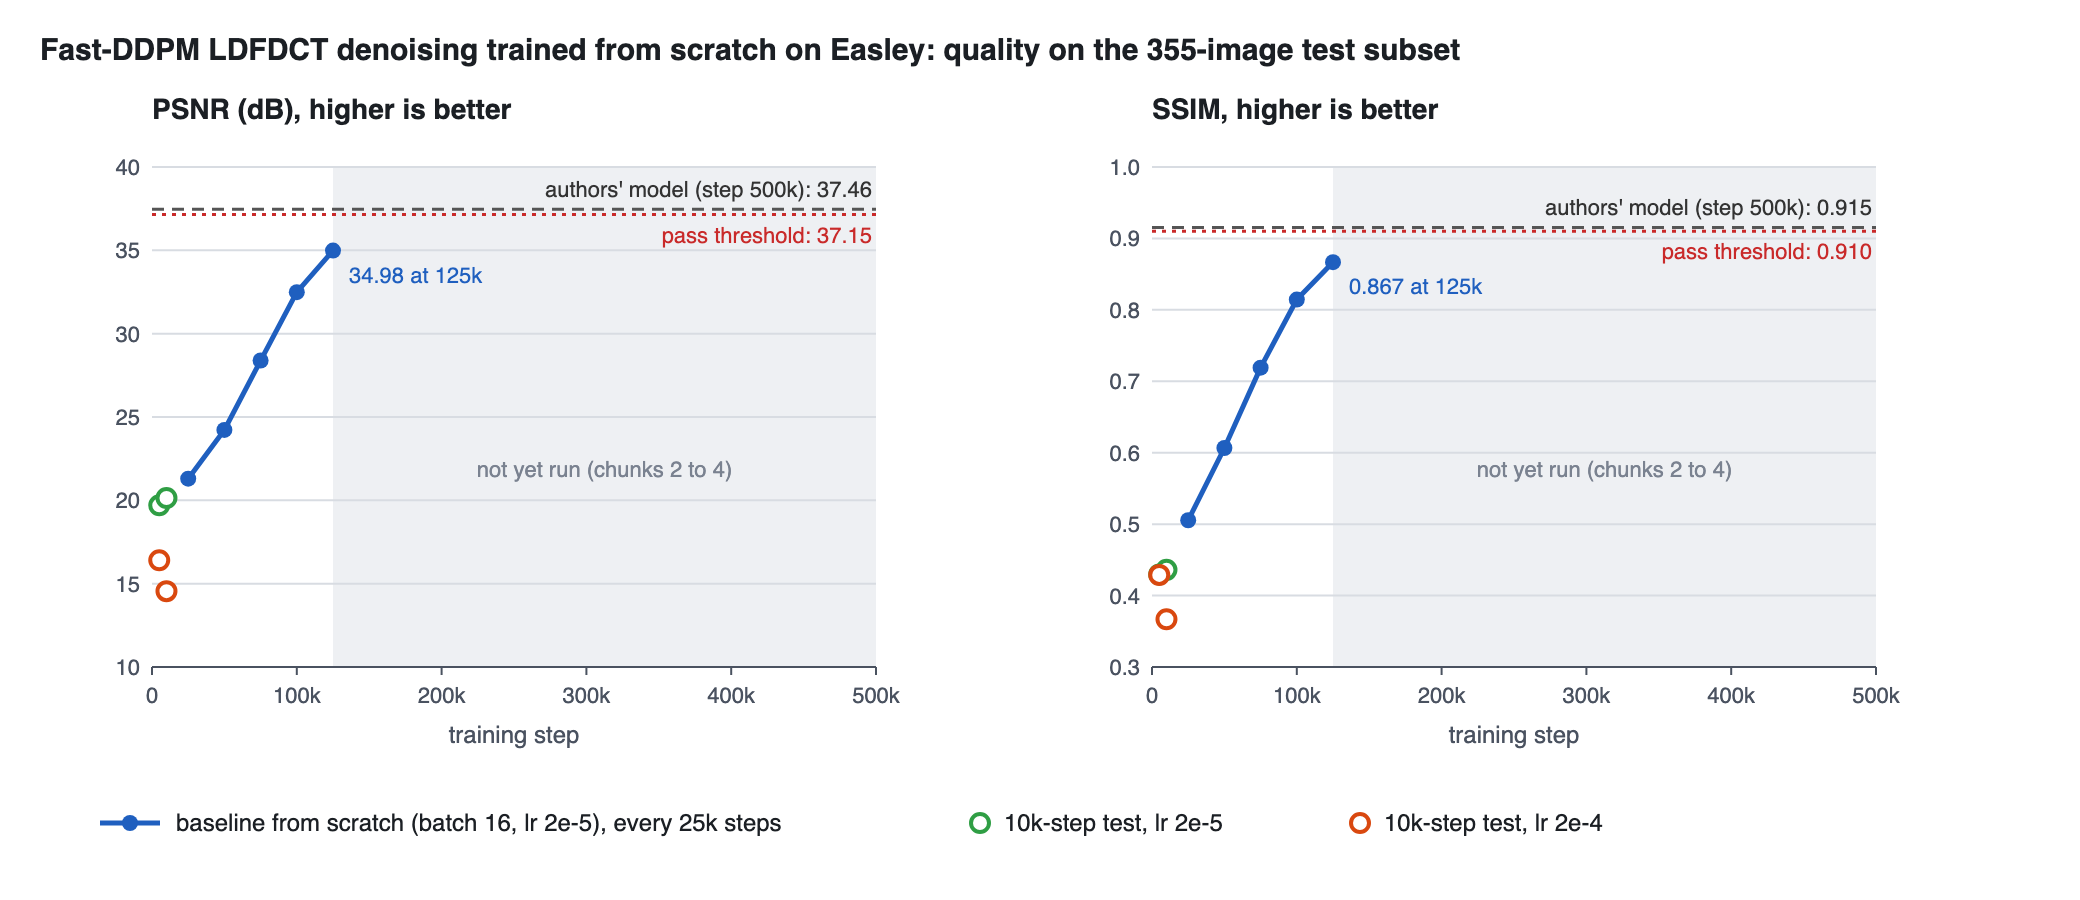
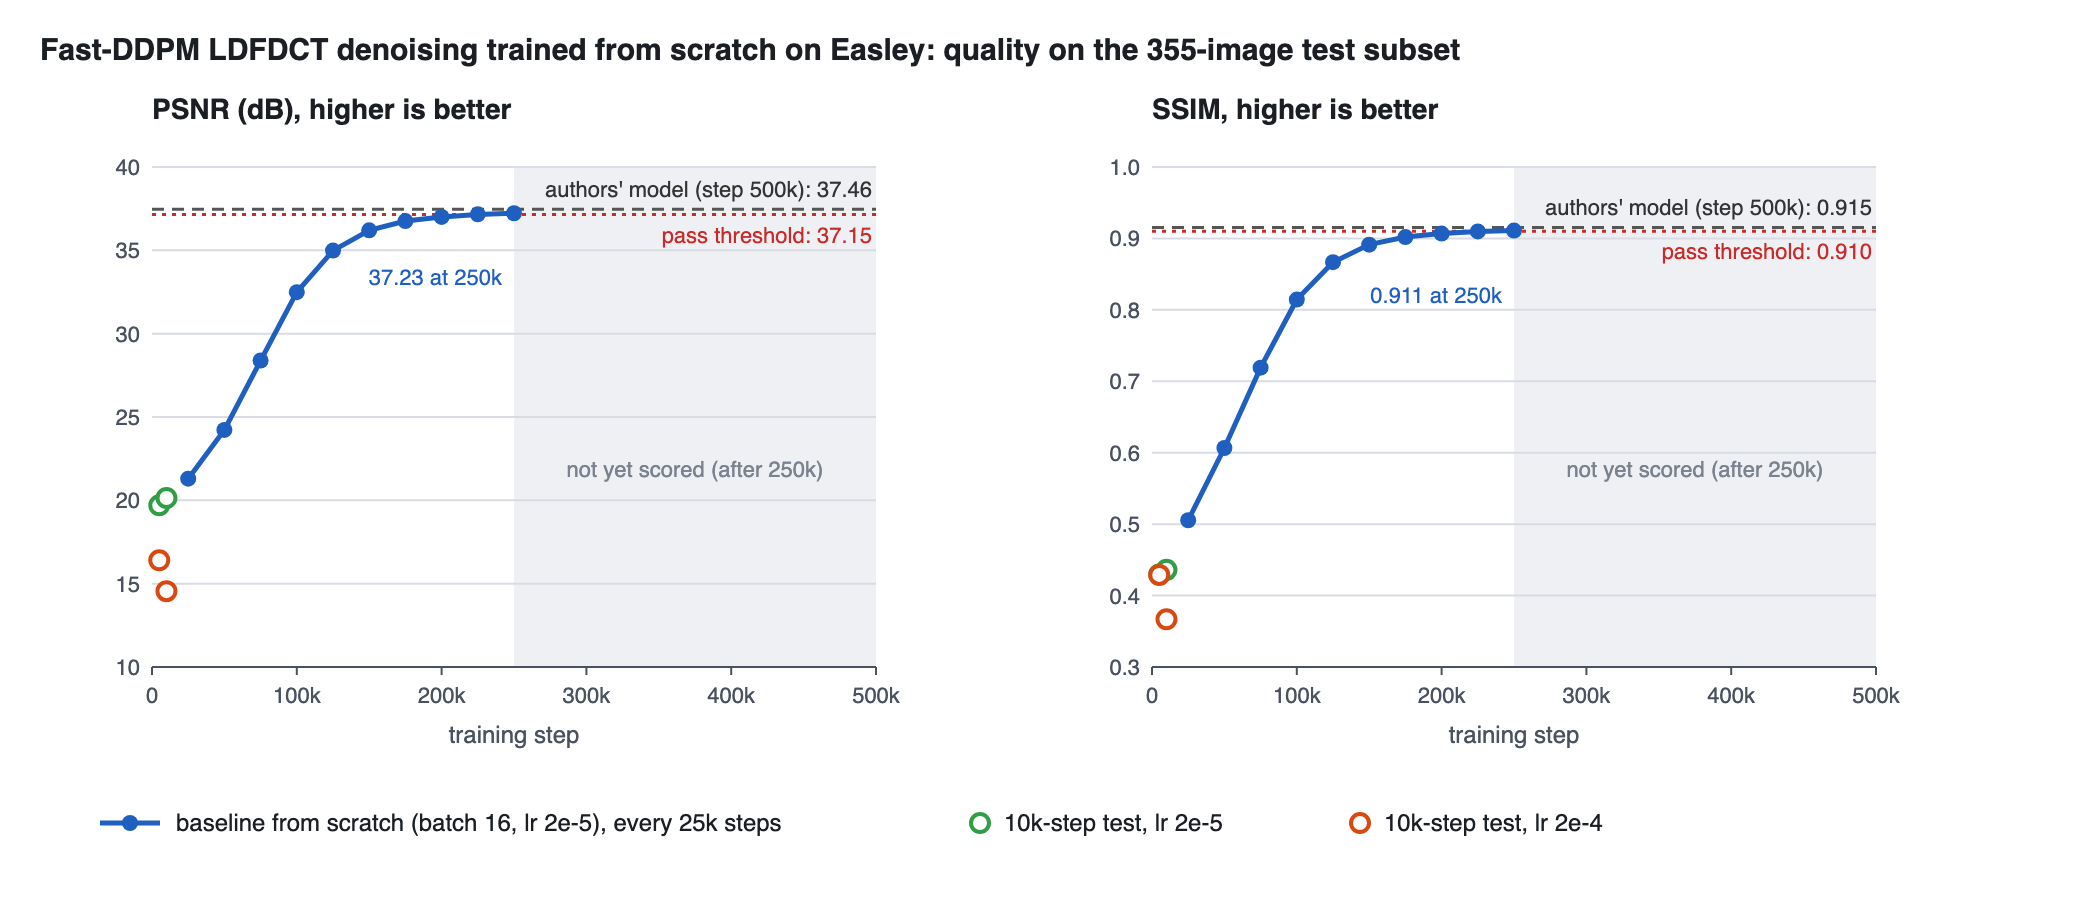
Harden the baseline chain after the scratch-quota failure; add chunk-2 scores
- baseline_train.sh: fail if ckpt.pth is short of the chunk target (the fork's main
  catches exceptions and returns 0), and write-test scratch before starting
- eval_checkpoints.sh: skip missing checkpoints; failed evals leave NA rows
- submit_baseline.sh: START= restarts the chain from a given step
- docs: troubleshooting entries (group quota, exit 0 on crash, restart), baseline
  trajectory to 250k, section 3.4 on the chunk 3/4 failures
- results: scores for 150k-250k; chart regenerated and label overlap fixed

diff --git a/docs/images_src/build_images.py b/docs/images_src/build_images.py
@@ -330,7 +330,7 @@ def chart_html():
         s = [f'<text x="{ox + 56}" y="{top - 24}" font-size="14" font-weight="600" fill="#1b1f24">{ylabel}</text>']
         # pending region
         s.append(f'<rect x="{sx(last)}" y="{top}" width="{sx(total) - sx(last)}" height="{ph}" fill="#eef0f3"/>')
-        s.append(f'<text x="{(sx(last) + sx(total)) / 2}" y="{top + ph * 0.62}" font-size="11" fill="#7a8290" text-anchor="middle">not yet run (chunks 2 to 4)</text>')
+        s.append(f'<text x="{(sx(last) + sx(total)) / 2}" y="{top + ph * 0.62}" font-size="11" fill="#7a8290" text-anchor="middle">not yet scored (after {last // 1000}k)</text>')
         for t in ticks:
             s.append(f'<line x1="{ox + 56}" x2="{ox + pw - 12}" y1="{sy(t)}" y2="{sy(t)}" stroke="#d8dce2"/>')
             s.append(f'<text x="{ox + 50}" y="{sy(t) + 4}" font-size="11" fill="#4a5260" text-anchor="end">{fmt(t)}</text>')
@@ -357,7 +357,7 @@ def chart_html():
         for x, v in pts:
             s.append(f'<circle cx="{sx(x)}" cy="{sy(v)}" r="4" fill="#1f5fbf"/>')
         x, v = pts[-1]
-        s.append(f'<text x="{sx(x) + 8}" y="{sy(v) + 16}" font-size="11" fill="#1f5fbf">{fmt(v)} at {x // 1000}k</text>')
+        s.append(f'<text x="{sx(x) - 6}" y="{sy(v) + 36}" font-size="11" fill="#1f5fbf" text-anchor="end">{fmt(v)} at {x // 1000}k</text>')
         return "".join(s)
 
     left = panel(0, "psnr", 10, 40, [10, 15, 20, 25, 30, 35, 40], ref_psnr, thr_psnr, lambda v: f"{v:.2f}" if isinstance(v, float) and v % 1 else f"{v:g}", "PSNR (dB), higher is better")

diff --git a/docs/run_options_and_bounds.md b/docs/run_options_and_bounds.md
@@ -168,7 +168,9 @@ is why loss could not choose between the learning rates.
 
 ### 3.3 Baseline trajectory (from scratch, batch 16, lr 2e-5, one H100; stride-10 subset)
 
-Chunk 1 (job 1410422, 12:01:15 on `easley054`) and its eval (job 1410423, 11:39 on `easley057`):
+Chunk 1 (job 1410422, 12:01:15 on `easley054`) and its eval (job 1410423, 11:39 on `easley057`);
+chunk 2 (job 1410424, 11:59:05 on `easley051`) and its eval (job 1410425, 11:30 on `easley055`).
+Chunk 3 (job 1410426) crashed at step 350,511 on the scratch quota; see section 3.4.
 
 | Step | PSNR (dB) | SSIM | Gain over previous 25k steps (dB) |
 |---:|---:|---:|---:|
@@ -177,12 +179,17 @@ Chunk 1 (job 1410422, 12:01:15 on `easley054`) and its eval (job 1410423, 11:39 
 | 75,000 | 28.39 | 0.7190 | +4.2 |
 | 100,000 | 32.49 | 0.8144 | +4.1 |
 | 125,000 | 34.98 | 0.8667 | +2.5 |
+| 150,000 | 36.20 | 0.8913 | +1.2 |
+| 175,000 | 36.75 | 0.9019 | +0.55 |
+| 200,000 | 37.00 | 0.9067 | +0.25 |
+| 225,000 | 37.16 | 0.9098 | +0.16 |
+| 250,000 | 37.23 | 0.9110 | +0.07 |
 | authors' checkpoint (step 500,000) | 37.46 | 0.9153 | |
 
 ![PSNR and SSIM against training step for the baseline and the learning-rate tests](images/fig_psnr_vs_step.png)
 
 (Regenerate with `python3 docs/images_src/build_images.py` after copying new eval CSVs into
-`docs/results/`; the chunks not yet run are shaded.)
+`docs/results/`; the part not yet scored is shaded.)
 
 - **Training works from scratch in our setup.** PSNR rises steadily; the 10,000-step LR test
   (20.14 dB) sits at the start of this curve.
@@ -190,8 +197,22 @@ Chunk 1 (job 1410422, 12:01:15 on `easley054`) and its eval (job 1410423, 11:39 
 - **The 25 dB early-warning cutoff was too crude.** At 50,000 steps PSNR was 24.22, below the
   cutoff, yet the run was gaining 3 to 4 dB per 25,000 steps. We continued. The cutoff was a
   judgment made without a reference curve; a slope rule is better (see section 4).
-- **Gains are shrinking** (+4.1, then +2.5 dB). Five points do not support a prediction of the
-  final value; the remaining chunks will show whether it reaches the threshold.
+- **Gains are shrinking fast.** Each 25,000 steps adds roughly half of the previous gain
+  (+2.5, +1.2, +0.55, +0.25, +0.16, +0.07 dB). At 250,000 steps the subset score is already
+  above the proposed full-test-set bar (37.15 dB, 0.910), but a subset score is not a pass.
+  If the halving continues the curve flattens near 37.3 dB, a little under the authors' 37.46
+  (an extrapolation from a few points, not a measurement). If so, the second half of the
+  schedule buys about 0.1 dB for about 24 H100-hours; the scores for 275k to 500k will
+  confirm or refute it.
+
+### 3.4 Chunk 3 and 4 failures (2026-11-10): scratch quota
+
+Chunk 3 stopped at step 350,511 and chunk 4 died after 26 s; both with
+`OSError 122: Disk quota exceeded` (TensorBoard event file), and the eval of chunk 3 failed
+saving a sample image. The group quota on `/carc/scratch` is 100 GiB (we were at 101.23). The
+chain did not stop cleanly because the fork's `main` catches exceptions and returns 0. The last
+good checkpoint, `ckpt_350000.pth`, was intact. See the troubleshooting log in `hpc_tutorial.md`
+for the fix and the restart command.
 
 ---
 
@@ -238,9 +259,10 @@ After a chunk and its evaluation finish:
 ones pending as `DependencyNeverSatisfied`.
 1. `scancel` the stuck jobs.
 2. Check the last checkpoint: `ls -l ~/carc-scratch/fastddpm-exp/logs/baseline_bs16_lr2e-5/`.
-3. Rerun `bash submit_baseline.sh`. Each job computes its target from the latest
-   `ckpt.pth`, and a job already past the total exits at once. Duplicate rows in the CSV
-   are harmless.
+3. Rerun the chain from the step `ckpt.pth` holds, e.g. `START=350000 bash submit_baseline.sh`
+   (add `DRY=1` first). Chunks that end at or before `START` are not submitted; each job still
+   computes its target from the latest `ckpt.pth`. Check that a quota error or other crash is
+   fixed first: the 2026-11-10 failure is in the troubleshooting log.
 
 A crash costs at most the steps since the last checkpoint (up to 25,000, about
 2.4 h).

diff --git a/docs/hpc_tutorial.md b/docs/hpc_tutorial.md
@@ -515,3 +515,27 @@ assumed, not confirmed, at the time this was written.
   removes an existing `--doc` folder unless `--resume_training` is given. Before
   rerunning `submit_baseline.sh`, check that `ckpt.pth` exists in the run's folder
   (otherwise a second chunk-1 job would delete the one that is running).
+- **`Disk quota exceeded` on `/carc/scratch` stops a long run (2026-11-10)** — the quota
+  is **100 GiB per group** (`lc2025`), shared by everything you keep on scratch, not just the
+  current project. The login banner warns `The storage quota for group <group> on
+  /carc/scratch has been exceeded (101.23GiB/100.00GiB)`. Here it killed two training
+  chunks and an evaluation: the baseline's checkpoints (1.7 GB each, one per 25,000 steps)
+  pushed total use over the limit, and the next write failed. The errors appear in the
+  job's `.err`, not in the exit code:
+  - training: `OSError: [Errno 122] Disk quota exceeded: '.../tensorboard/<doc>/events.out.tfevents...'`
+  - evaluation: the same error when saving `.../image_samples/<doc>/images_fid/<step>_0_pt.png`
+
+  **Check usage before a long run:** `du -sh ~/carc-scratch/` (the trailing slash matters:
+  `~/carc-scratch` is a symlink and plain `du` reports 0). **Test whether writes work:**
+  `dd if=/dev/zero of=~/carc-scratch/.writetest bs=1M count=100 && rm ~/carc-scratch/.writetest && echo WRITE_OK`.
+  After deleting 17.7 GB the write test still failed for the first couple of minutes (twice), then passed: the quota counter lags a little behind `du`, so retry before assuming the delete did not help. `baseline_train.sh` now runs that
+  write test first and stops with a clear message.
+- **A crashed training job reports exit code 0 (2026-11-10)** — `fast_ddpm_main.py` wraps its
+  work in `except Exception:` (it logs the traceback) and then `return 0`. So a crash, such as
+  the quota error above, looks like a clean finish and `--dependency=afterok` carries on.
+  Saving python's `$?` (the entry above) is not enough here. `baseline_train.sh` therefore
+  also checks that the step stored in `ckpt.pth` reached the chunk's target, and exits 1 if
+  not. Evaluations that fail now leave a visible `NA,NA,NA` row instead of a short one.
+- **Restarting after a crash** — with `ckpt.pth` intact, rerun the chain from the step it
+  holds: `START=350000 DRY=1 bash submit_baseline.sh`, then without `DRY=1`. `START` skips the
+  chunks that already finished, and cancel the old pending jobs first (`scancel`).
